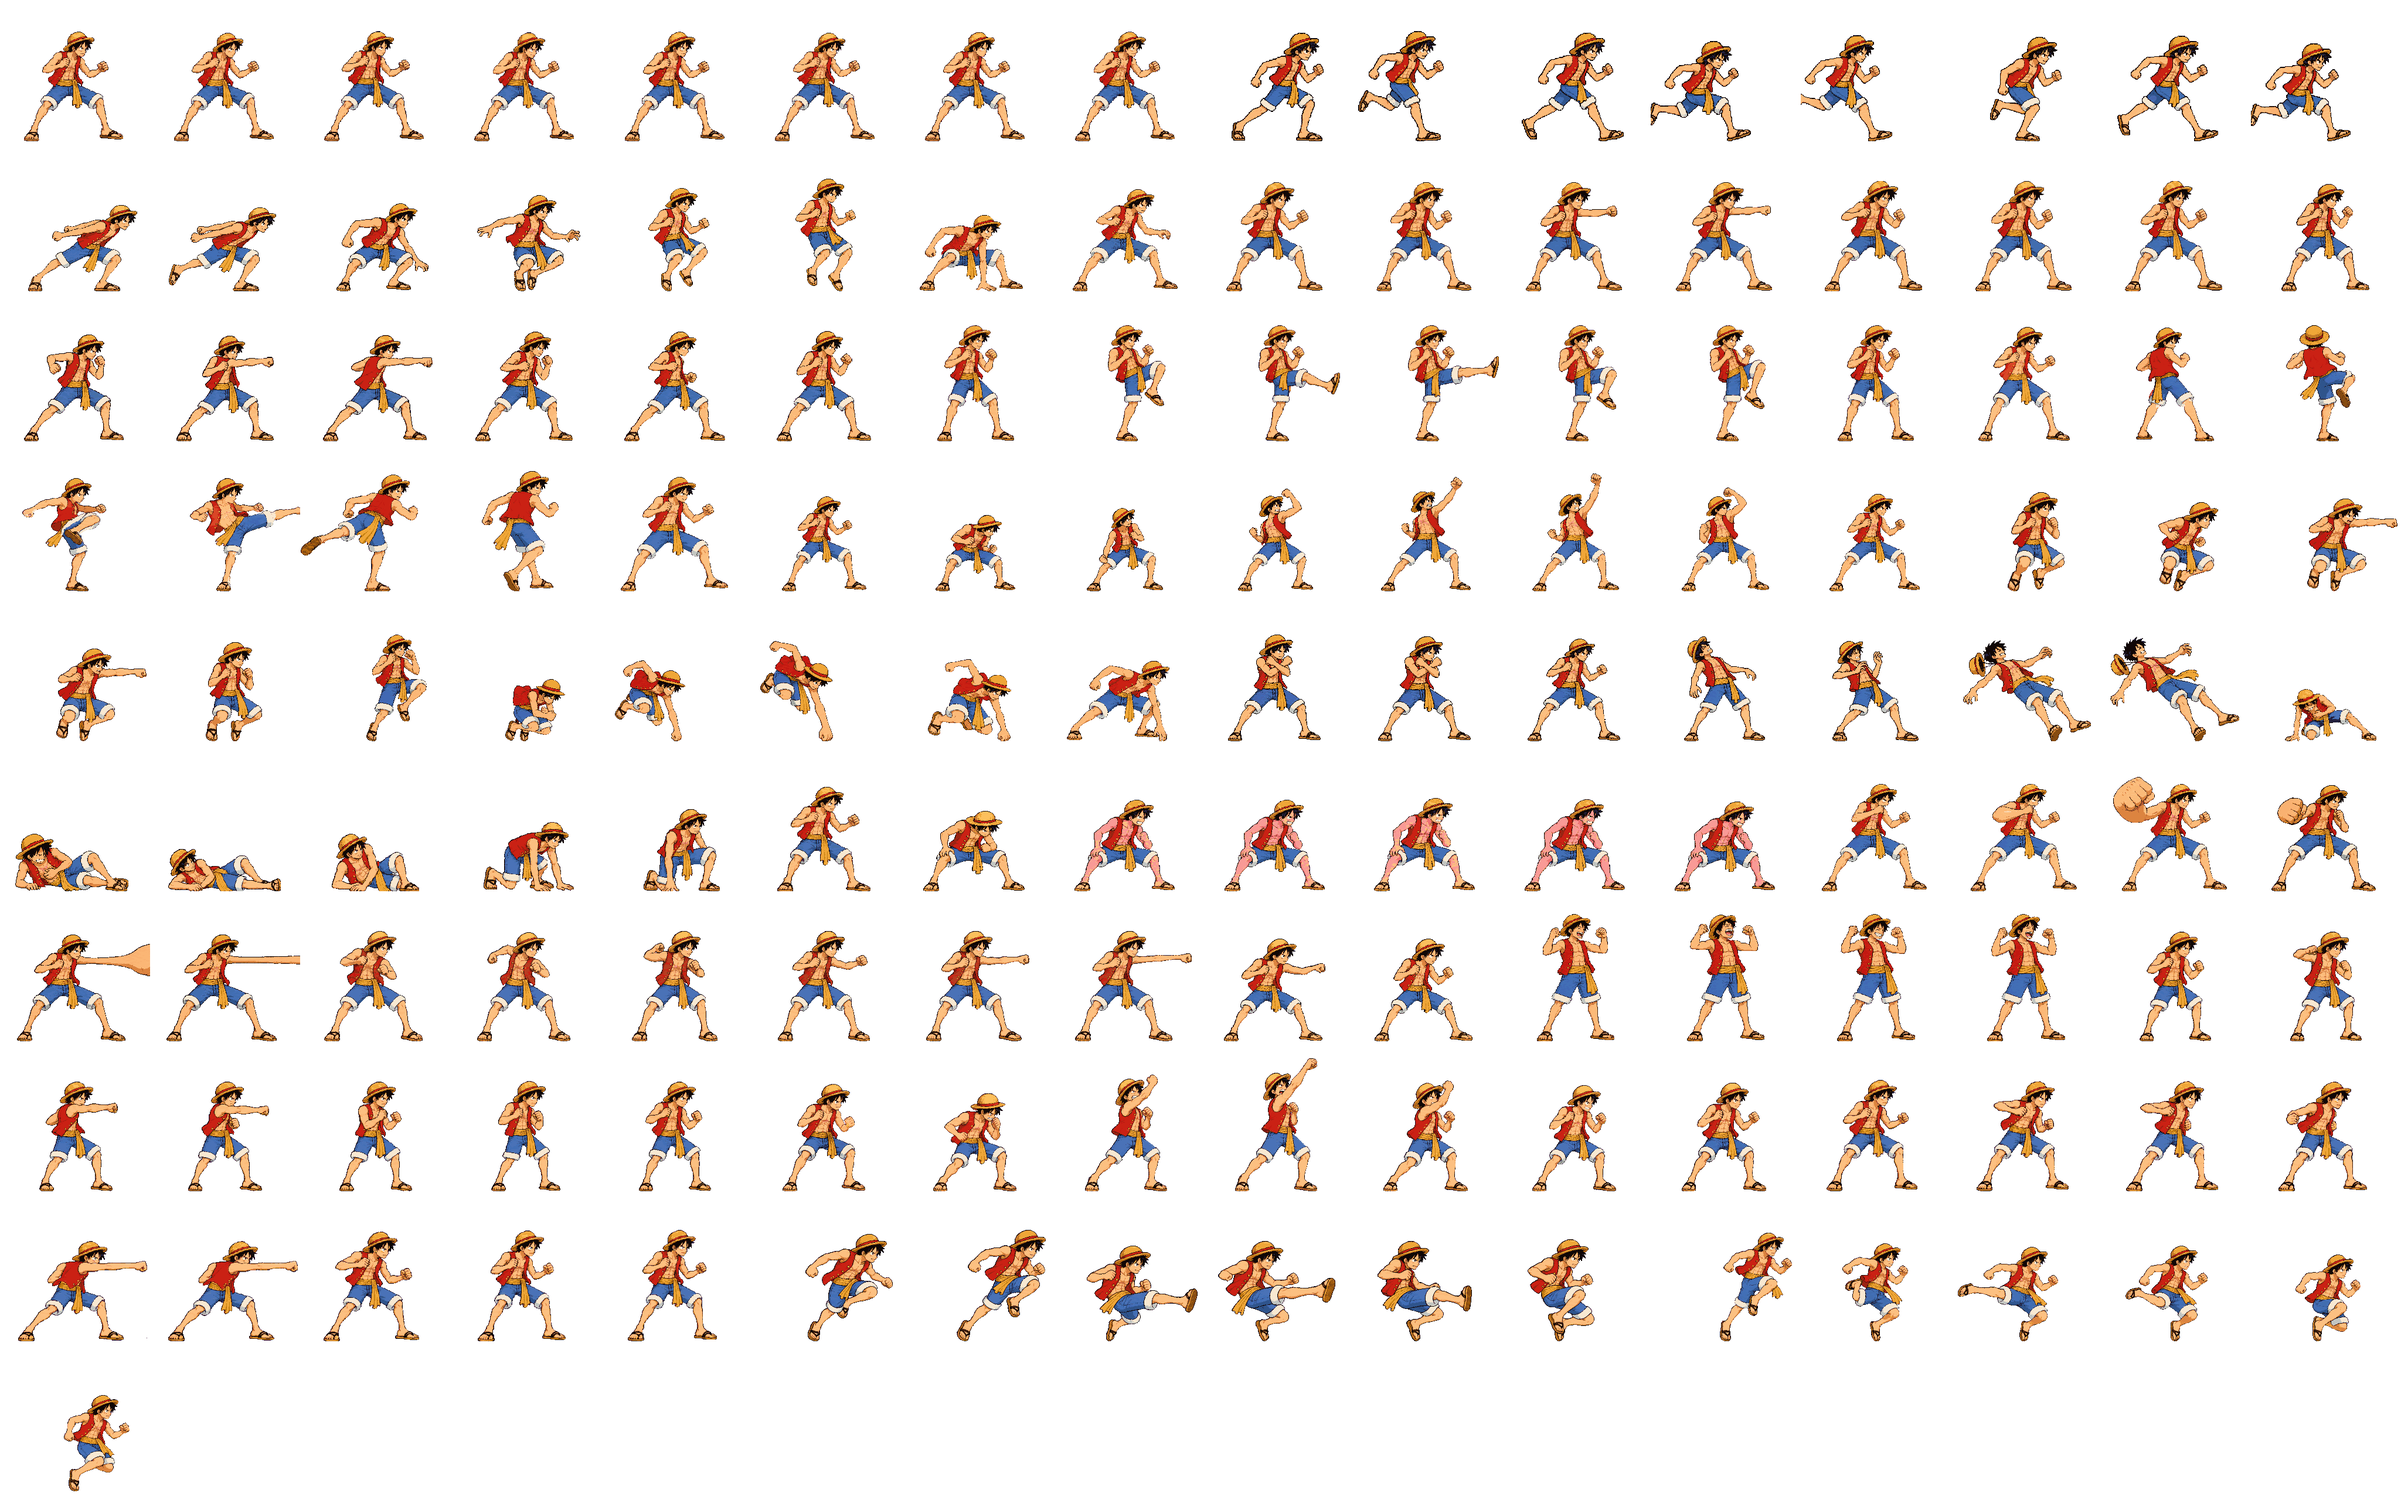
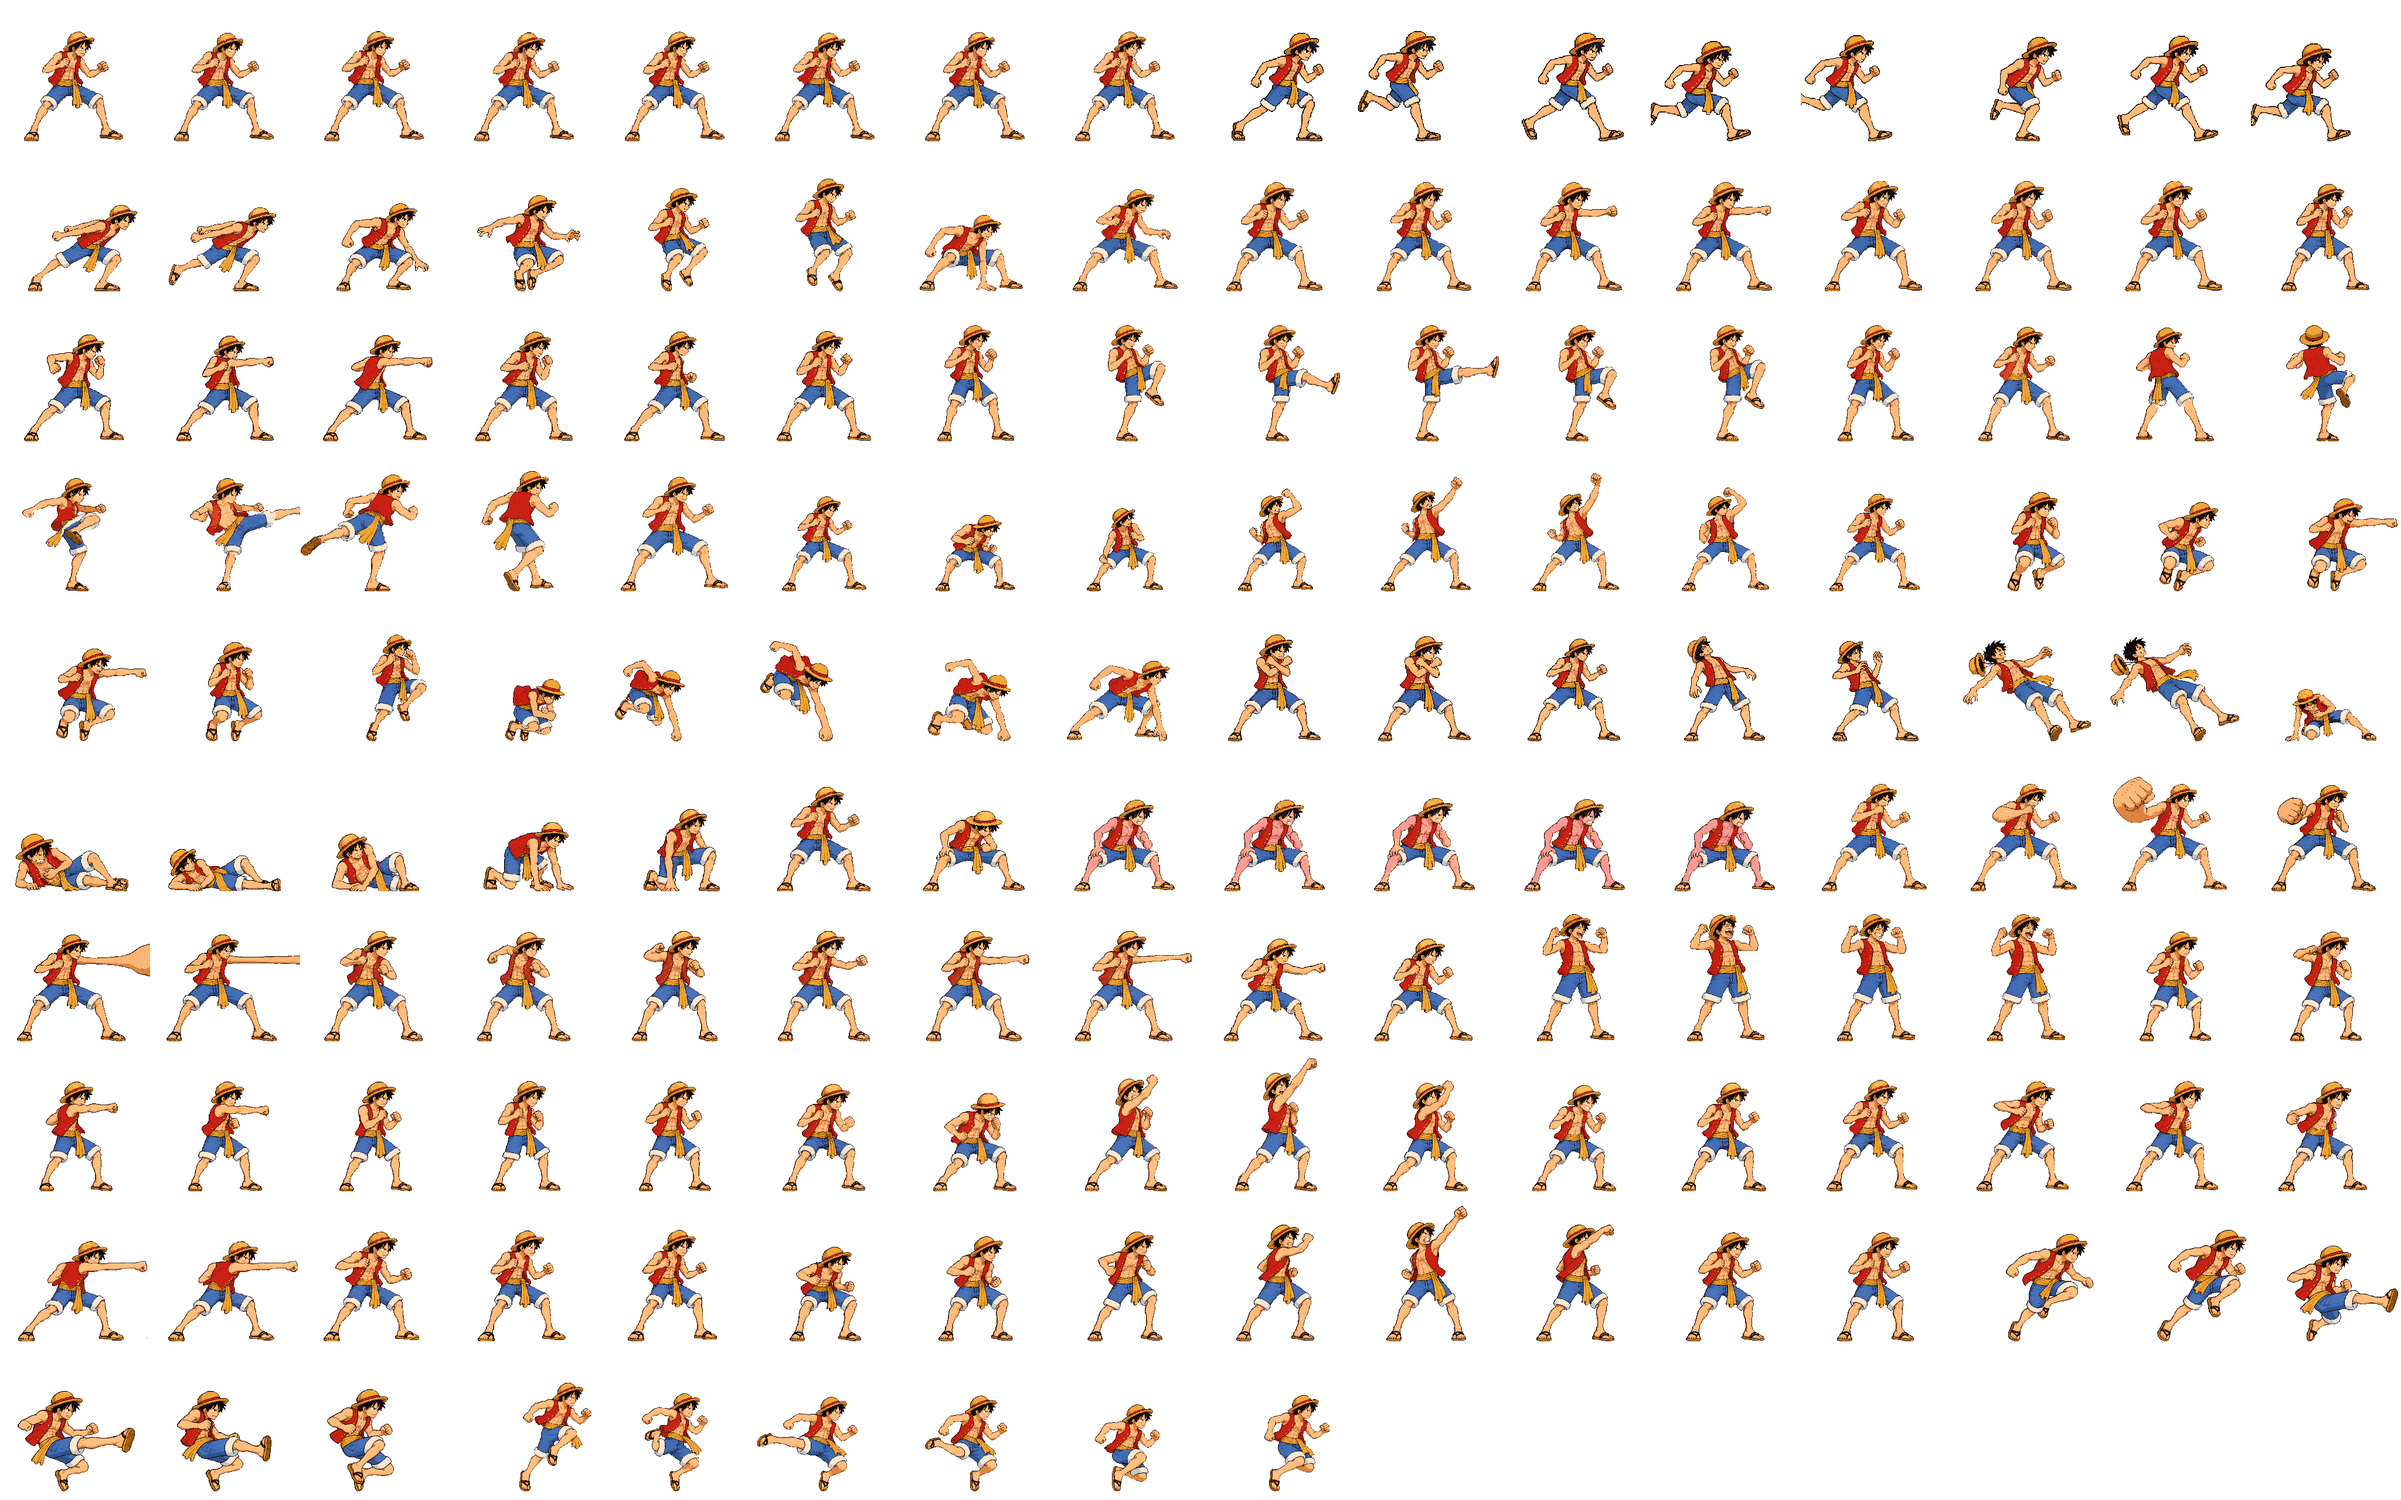
art(luffy): ship uSmash v05 at x1.15, keep stand-ins for the other r2 strips
User decisions 2026-10-19: uSmash v05 ships at strip packScale 1.15 (drawn
about 15% small); dTilt v04, dSmash v03 and uair v02 move to raw/_qa_hold
and dashAttack keeps its stand-in. uSmash hit boxes rescaled with the strip;
the held strips' boxes are dropped.

diff --git a/art/TRACKER.md b/art/TRACKER.md
@@ -498,7 +498,7 @@ manifest lists all ten per fighter (status `todo`, bodyHeight copied from that f
 | killua | fTilt v02 approved; dTilt v02 approved | dashAttack v02 approved | fSmash v02 approved; uSmash stand-in; dSmash v03 approved | fair/bair v02 approved; uair stand-in | ENG-112: all ten drawings approved via Claude relays #20/#22. Relay #24 first pack d62a961c ships seven; uTilt/uSmash/uair remain in _qa_hold for follow-up; contact crops in public/reviews/normals-killua/ship-seven/. |
 | gojo | fTilt v01, uTilt v01, dTilt v02 approved | dashAttack v01 approved | fSmash/uSmash/dSmash v01 approved | fair v01, bair v02, uair v01 approved | ENG-112: all ten drawings approved via Claude relays #30/#35. Nine-move branch merged; uair v01 reviewed at retry-34. Astra technical holds and Claude runtime contact check remain. |
 | goku | fTilt v01 approved; uTilt v04 approved via Claude relay #45 at strip packScale 1.09; dTilt v01 approved | dashAttack v01 approved | fSmash v01 approved; uSmash v05 held (relay #46; packed body 160–216px vs idle 213–214px, contact boxes oversized); dSmash v06 held (relay #46; active boots clipped, anatomy enlarged, contacts misplaced) | fair v01, bair v01, uair v01 approved | ENG-112 branch art/normals-goku-r2: uTilt v04 restored unchanged from _qa_hold at strip packScale 1.09. Astra relay #45 final5 scale/anatomy pass; version-bound f3/f4 strike boxes verified. Runtime combat contact remains with Claude. Relay #46 used all six authorized calls; uSmash v05 and dSmash v06 stay in _qa_hold after Astra final5 HOLD. See relay46 review page/audit; call budgets exhausted pending a new user decision. |
-| luffy | fTilt v01 approved, shipping; uTilt v02 approved, shipping at strip packScale 1.13 (Astra rechecked); dTilt v02 approved, held; dTilt v04 needs user review, Astra HOLD | dashAttack v02 approved but held; r2 used all three calls without selecting a candidate; live stand-in stays | fSmash v02 approved, shipping; uSmash v03 approved but held; uSmash v05 needs user review, Astra HOLD; dSmash v02 approved but held; dSmash v03 needs user review, Astra HOLD | fair v03, bair v03 approved, shipping; uair v01 approved but held; uair v02 needs user review, Astra HOLD | ENG-112 r2: selected redraws dTilt v04, uSmash v05, dSmash v03 and uair v02 are packed for review; none is technically cleared. All four remain on live stand-ins pending user design review and follow-up technical work. dashAttack attempts 04–06 did not yield a candidate. See [r2 review](../public/reviews/normals-luffy-r2/index.html) and [Astra audit](../public/reviews/normals-luffy-r2/ASTRA_FINAL3_STRICT_AUDIT.md) |
+| luffy | fTilt v01 shipping; uTilt v02 shipping at packScale 1.13; dTilt stand-in (v04 redraw held, user chose the stand-in) | dashAttack stand-in (no r2 candidate) | fSmash v02 shipping; uSmash v05 shipping at packScale 1.15 (user, 2026-10-19); dSmash stand-in (v03 redraw held) | fair v03, bair v03 shipping; uair stand-in (v02 redraw held) | ENG-112 closed for Luffy: six new strips live; the user kept stand-ins for dTilt, dashAttack, dSmash and uair after the r2 redraw round (2026-10-19). Held versions stay in raw/_qa_hold/. |
 
 ## VFX atlas (step 10)
 

diff --git a/CHANGELOG.md b/CHANGELOG.md
@@ -17,6 +17,7 @@ Fixed, Security. Reference task ids and ADRs where useful.
 
 ## [Unreleased]
 - Changed (ART-CHARGE): prepared Killua charge v15 from two image calls; packed six frames with `loopFrom: 2`, built the packed-cell review page and recorded Astra's loop/head PASS plus unresolved quantitative body-segment HOLD. The user approved v15 as drawn via Claude relay charge #12 (“Approve v15”); approval is recorded. The quantitative body-segment HOLD remains separate from the visual approval, with no rescale or head exemption.
+- Added (ENG-112): Luffy's up smash (uSmash v05, user-approved, imported at x1.15 to match his idle). His down tilt, dash attack, down smash and up air keep their stand-ins after the redraw round.
 - Changed (ART-SKL-GOK): recorded the user's relay #16 decision exempting intro, throw and specialUp v01 from the unmeasurable head check (`scaleExemptVersion: 1`); Astra scaleManualQA v1 HOLD records remain unchanged.
 - Changed (ART-SKL-GOK): Astra final-audited intro, throw and specialUp v01 on the exact production atlas; all 14 frames pass visible anatomy and containment, while head scale remains unmeasured and version-bound scaleManualQA v1 holds are recorded.
 - Changed (ART-SKL-GOK): recorded user visual approval via Claude relay goku-skills #14 for specialUp, throw, intro, kiBlast, kiMuzzle, kiBlastBurst and superSaiyanBurst v01; all documented technical holds remain.
